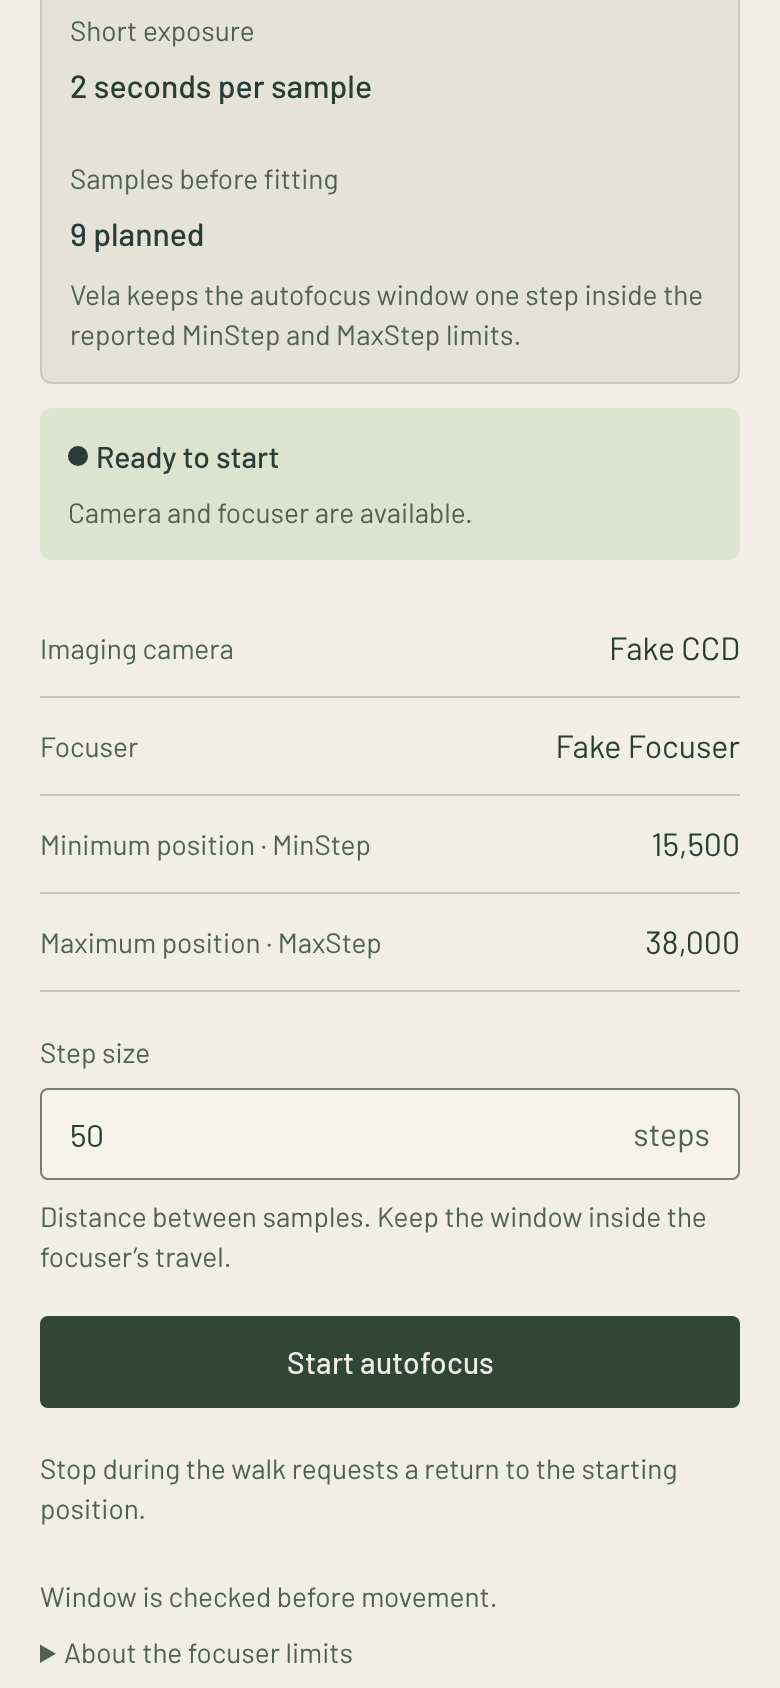
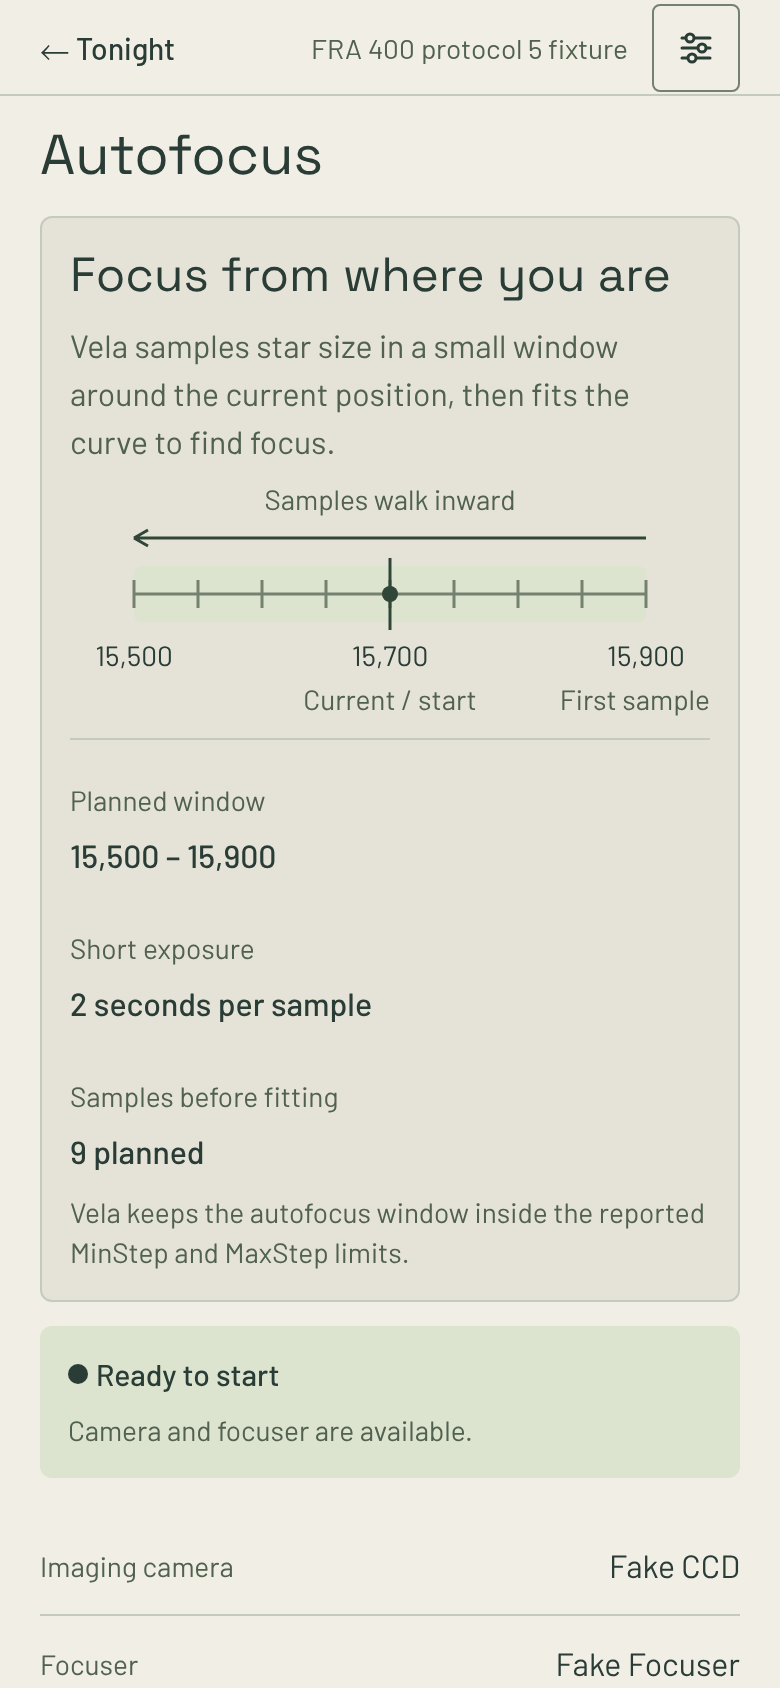
docs(observing): record protocol 5 cutover verification

diff --git a/docs/observing/protocol-5-evidence/README.md b/docs/observing/protocol-5-evidence/README.md
@@ -15,8 +15,19 @@ pnpm exec vitest run packages/cria/test/equipment.test.ts apps/server/tests/cria
 ```
 
 The clean `main` baseline at `2d74b61` passed 1235 tests across 120 files.
-The focused protocol 5 client run passed 52 tests across three files. The adapter
-and server scenario run passed 24 tests across two files.
+On the rebased implementation, `pnpm install`, `pnpm build`, and
+`VITEST_MAX_WORKERS=1 pnpm check` all exited 0. The final check passed 1186 tests
+across 116 files, plus lint, type checks and builds. The count falls because the
+protocol 4 client, fixture and adapter tests were deleted and replaced by the
+protocol 5 checks. No test was disabled.
+
+An earlier full run passed 1174 tests and failed one assertion that expected
+the old mechanical-limit error text. That assertion now checks the exact travel-limit
+message. The final run above includes it.
+
+The focused protocol 5 client run passed 52 tests across three files. The final
+adapter run passed 11 tests, and the server scenario suite passed all 15 tests
+in the full run.
 
 The server scenarios cover lost admission, unknown admission and recovery fencing,
 recovery of an open command, cancel resends, 2-second and 19-second mount stops,
@@ -43,6 +54,49 @@ operation after restart. Those two cases remain covered by the client tests.
 The first two red runs were performed in the delegates' isolated worktrees.
 Their tests were then integrated and run against the actual production adapter.
 
+The first full code review found one P1 issue. A failed image transfer after a
+completed exposure was marked retryable, which let alignment request a replacement
+exposure. A new HTTP-fault regression failed with `CaptureRetryableError` before
+the correction. With the correction, the three download attempts still refer to
+one original, the failure is terminal, and only one exposure is submitted. A
+preflight read failure still permits a fresh attempt. Both checks pass in the
+final 1186-test suite.
+
+The Grok review found that autofocus still excluded valid endpoint positions,
+and that the selected AM5 9x rate had a documented stop error larger than the
+baseline corridor. The endpoint correction ran red with 12 failures and then
+passed 40 focused autofocus checks. Two polar-rate checks failed before its
+correction; all 49 physical-alignment checks pass now.
+
+The reported Cria travel is inclusive. Legacy Alpaca keeps its previous one-step
+margin. Physical alignment checks for an advertised rate near its existing 1°/s
+requirement before homing or moving. The current AM5 has none. Its slower rate
+cannot complete the leg within the pinned Cria's 120-second limit, so that rig's
+physical baseline is explicitly deferred in the cutover checklist. Compatible
+mounts still use reported travel and the 57° midpoint.
+
+## Docker server image
+
+The server target built successfully with no build cache, an empty Docker config,
+and no credentials passed to the build:
+
+```sh
+mkdir -p .codex/pr6-flip/docker-config
+printf '{}\n' > .codex/pr6-flip/docker-config/config.json
+DOCKER_CONFIG="$PWD/.codex/pr6-flip/docker-config" env -u GH_TOKEN -u GITHUB_TOKEN docker build --no-cache --target server -t vela-pr6-server:verification .
+DOCKER_CONFIG="$PWD/.codex/pr6-flip/docker-config" docker run --rm --network none --entrypoint node vela-pr6-server:verification --input-type=module -e 'import { createCriaConnection, createCriaEquipment } from "@vela/cria"; console.log(JSON.stringify({createCriaConnection: typeof createCriaConnection, createCriaEquipment: typeof createCriaEquipment}))'
+```
+
+The exported image manifest list is
+`sha256:d9636e04c958f2162e39fb086d56dd6f96121584f21ae8e2b917bdfb75d8e0d0`.
+The public Cria pin remains `86624908a57573b4953c2f759713b04d606defcd`.
+The built image also loaded both `createCriaConnection` and `createCriaEquipment`
+as functions with `docker run --rm --network none`. No connection was opened.
+
+```json
+{"createCriaConnection":"function","createCriaEquipment":"function"}
+```
+
 ## Browser checks
 
 The real web app was driven against a Fastify server whose equipment composition
@@ -51,10 +105,13 @@ used only the in-memory FakeCria. These screenshots record that run.
 - [Capture while held](capture-held.png) shows the mount's reason and disabled
   capture controls.
 - [Cooling while held](cooling-held.png) shows the same reason in Camera cooling.
-- [Autofocus on a phone](autofocus-travel-mobile.png) shows MinStep 15500 and
-  MaxStep 38000 at a 390-pixel viewport. The page had no horizontal overflow.
+- [Autofocus on a phone](autofocus-travel-mobile.png) shows the inclusive window
+  15500..15900 ready to start from 15700 at a 390-pixel viewport. The page had no
+  horizontal overflow. The walk started; Stop and restore start ended with
+  Confirmed stop and Start position restored at 15700.
 
-The temporary recovery route returned `outcome: "confirmed"`. Autofocus then
-started, and **Stop and restore start** ended with **Confirmed stop** and
-**Start position restored** at 20000. This is fake-device browser evidence;
-Chris's browser and hardware acceptance is still required.
+The temporary recovery route returned `outcome: "confirmed"` in the initial hold
+fixture, and the next autofocus started. In the final endpoint fixture, **Stop
+and restore start** ended with **Confirmed stop** and **Start position restored**
+at 15700. This is fake-device browser evidence; Chris's browser and hardware
+acceptance is still required.
